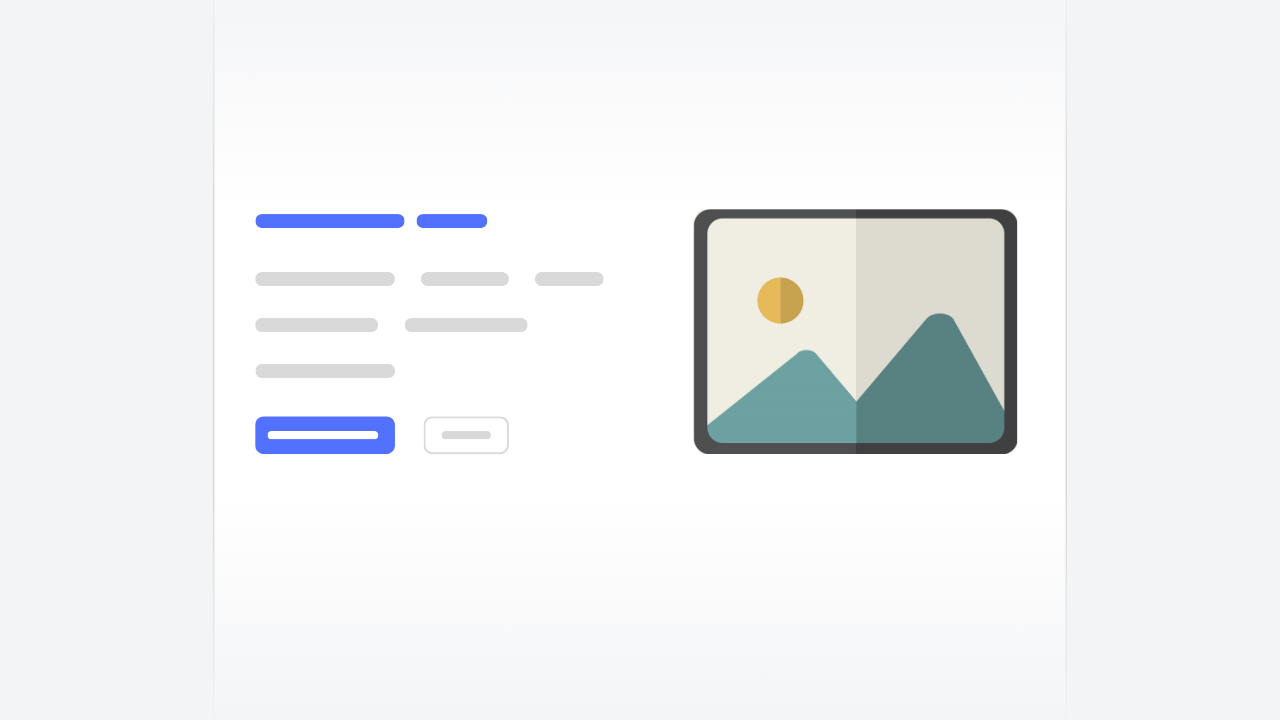
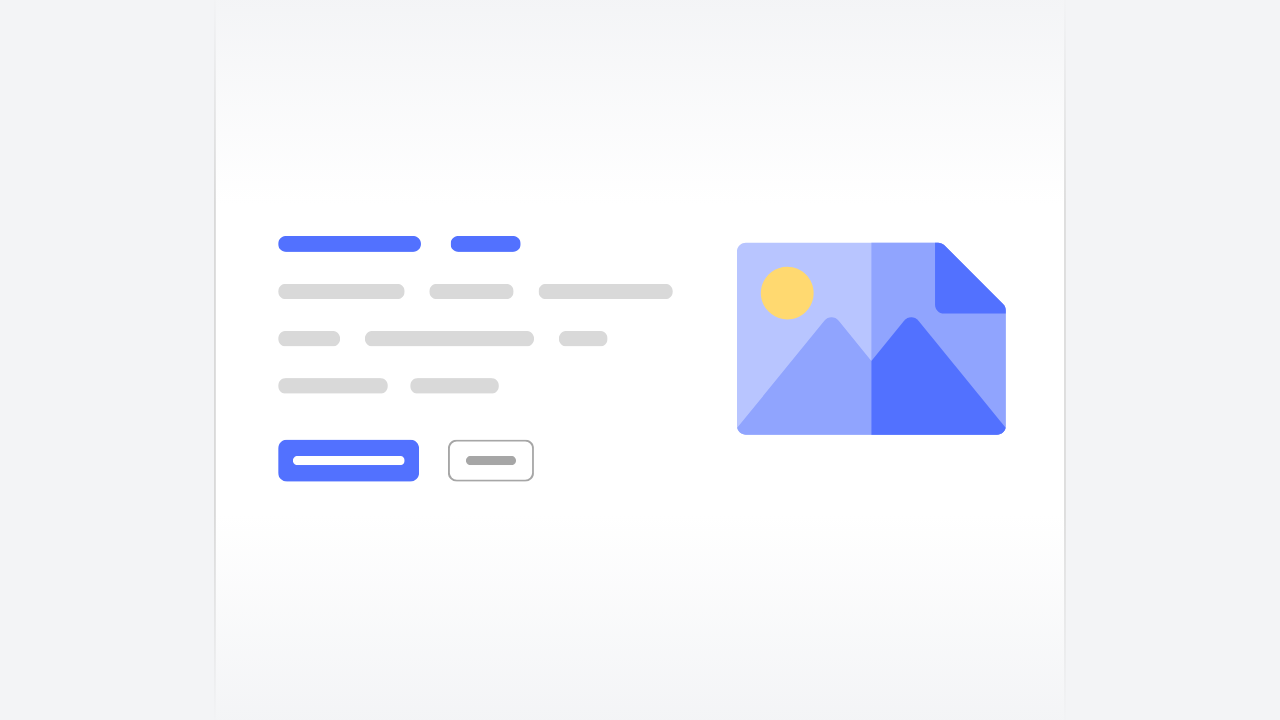
udpated component images

Changed region(s): [[0.1875, 0.275, 0.8125, 0.6417], [0.1875, 0.5806, 0.4062, 0.6722]]

diff --git a/data/components.js b/data/components.js
@@ -4,10 +4,13 @@ import Hero from "@/public/images/components/hero.png";
 import Header from "@/public/images/components/header.png";
 import Feature from "@/public/images/components/feature.png";
 import FeatureList from "@/public/images/components/feature-list.png";
+import FlyourMenu from '@/public/images/components/flyout.png';
 import Feedback from "@/public/images/components/feedback.png";
 import Newsletter from "@/public/images/components/newsletter.png";
 import Article from "@/public/images/components/article.png";
 import Blogs from "@/public/images/components/blogs.png";
+import HH1 from '@/public/images/components/h1.png';
+import FF1 from '@/public/images/components/f1.png';
 
 import N1 from "@/ui/navbar/S1";
 import N2 from "@/ui/navbar/S2";
@@ -112,6 +115,9 @@ import CLG3 from '@/ui/logo/C3.mdx'
 
 import TE1 from '@/ui/team/S1';
 import TE2 from '@/ui/team/S2';
+import CTE1 from '@/ui/team/C1.mdx';
+import CTE2 from '@/ui/team/C1.mdx';
+
 
 const components = [
     {
@@ -266,7 +272,7 @@ const components = [
         slug: "flyout-menu",
         name: "Flyout Menu",
         desc: "Component description",
-        image: Navbar,
+        image: FlyourMenu,
         imgurl: "/images/components/feature-list.png",
         number: "3 components",
         data: [
@@ -514,12 +520,12 @@ const components = [
             {
                 title: "Simple team section 1",
                 component: <TE1 />,
-                code: <CLG1 />
+                code: <CTE1 />
             },
             {
                 title: "Simple team section 2",
                 component: <TE2 />,
-                code: <CLG2 />
+                code: <CTE2 />
             },
         ],
     },

diff --git a/app/components/page.tsx b/app/components/page.tsx
@@ -38,7 +38,7 @@ const page = () => {
                                                 <Image
                                                     src={component.image}
                                                     alt="navbar-img"
-                                                    className="absolute inset-0 h-full w-full"
+                                                    className="absolute object-cover w-full"
                                                 />
                                             </div>
                                             <h4 className="mt-4 text-sm font-medium text-slate-800 group-hover:text-indigo-600 ">
